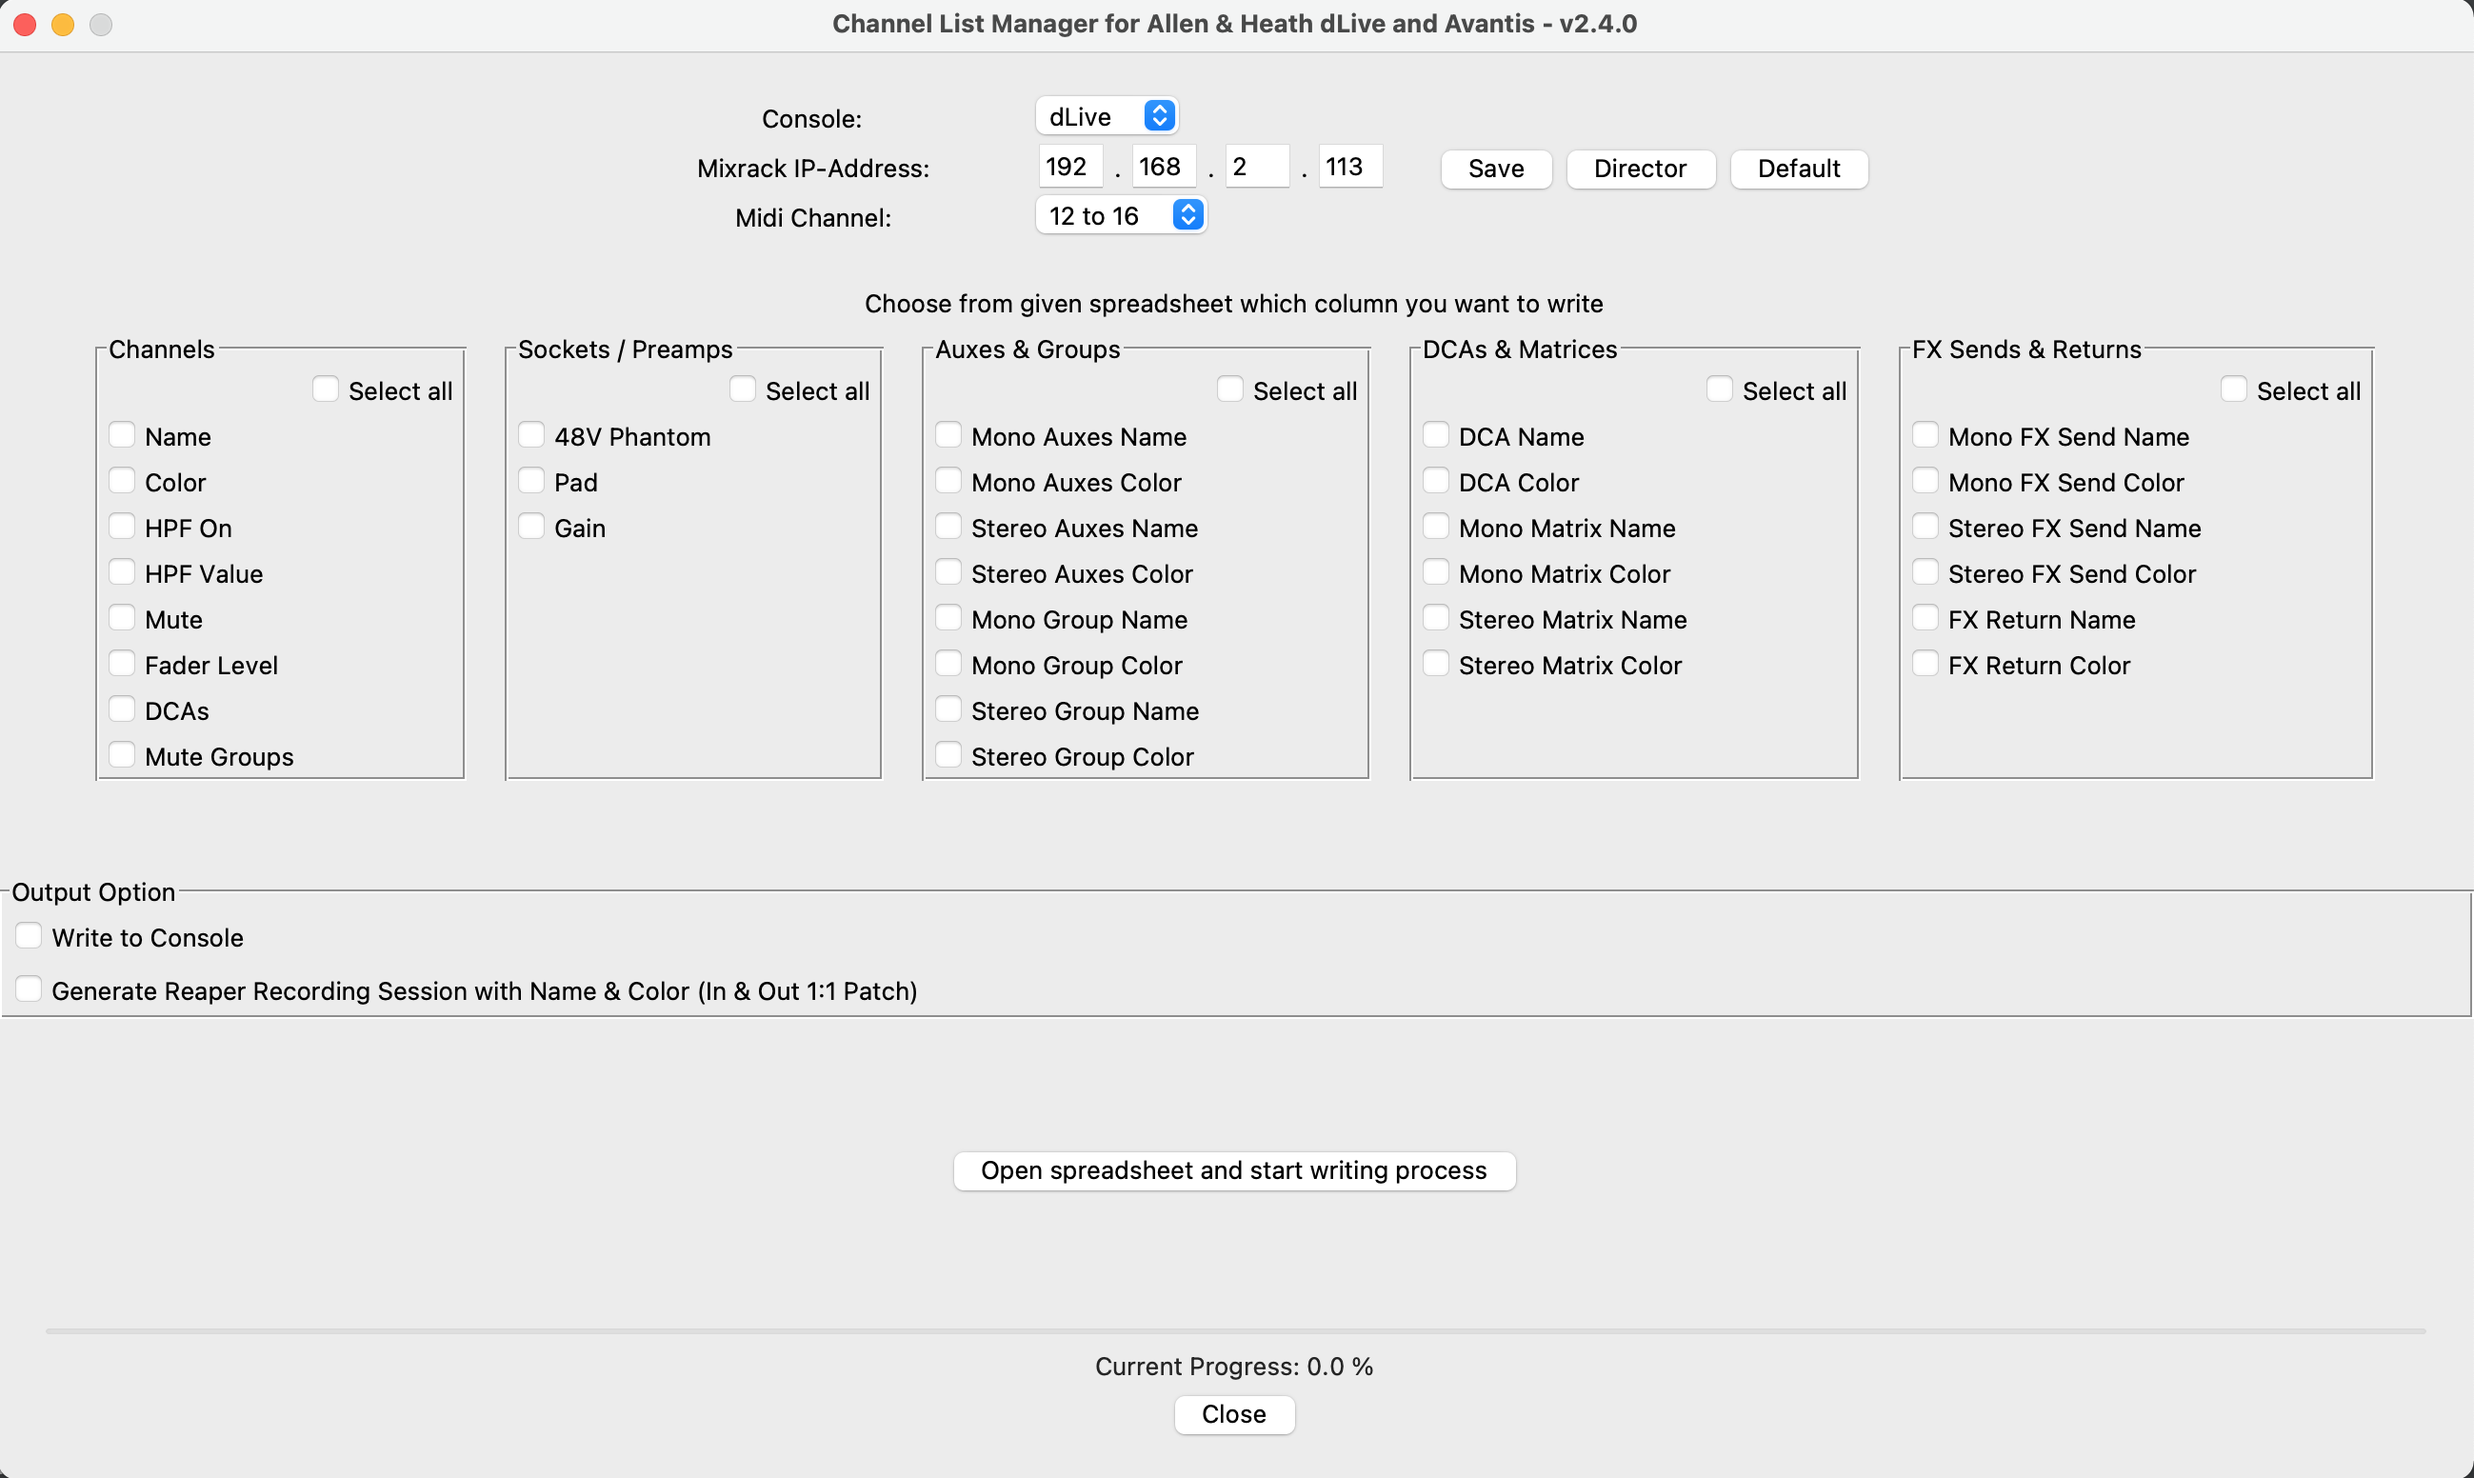
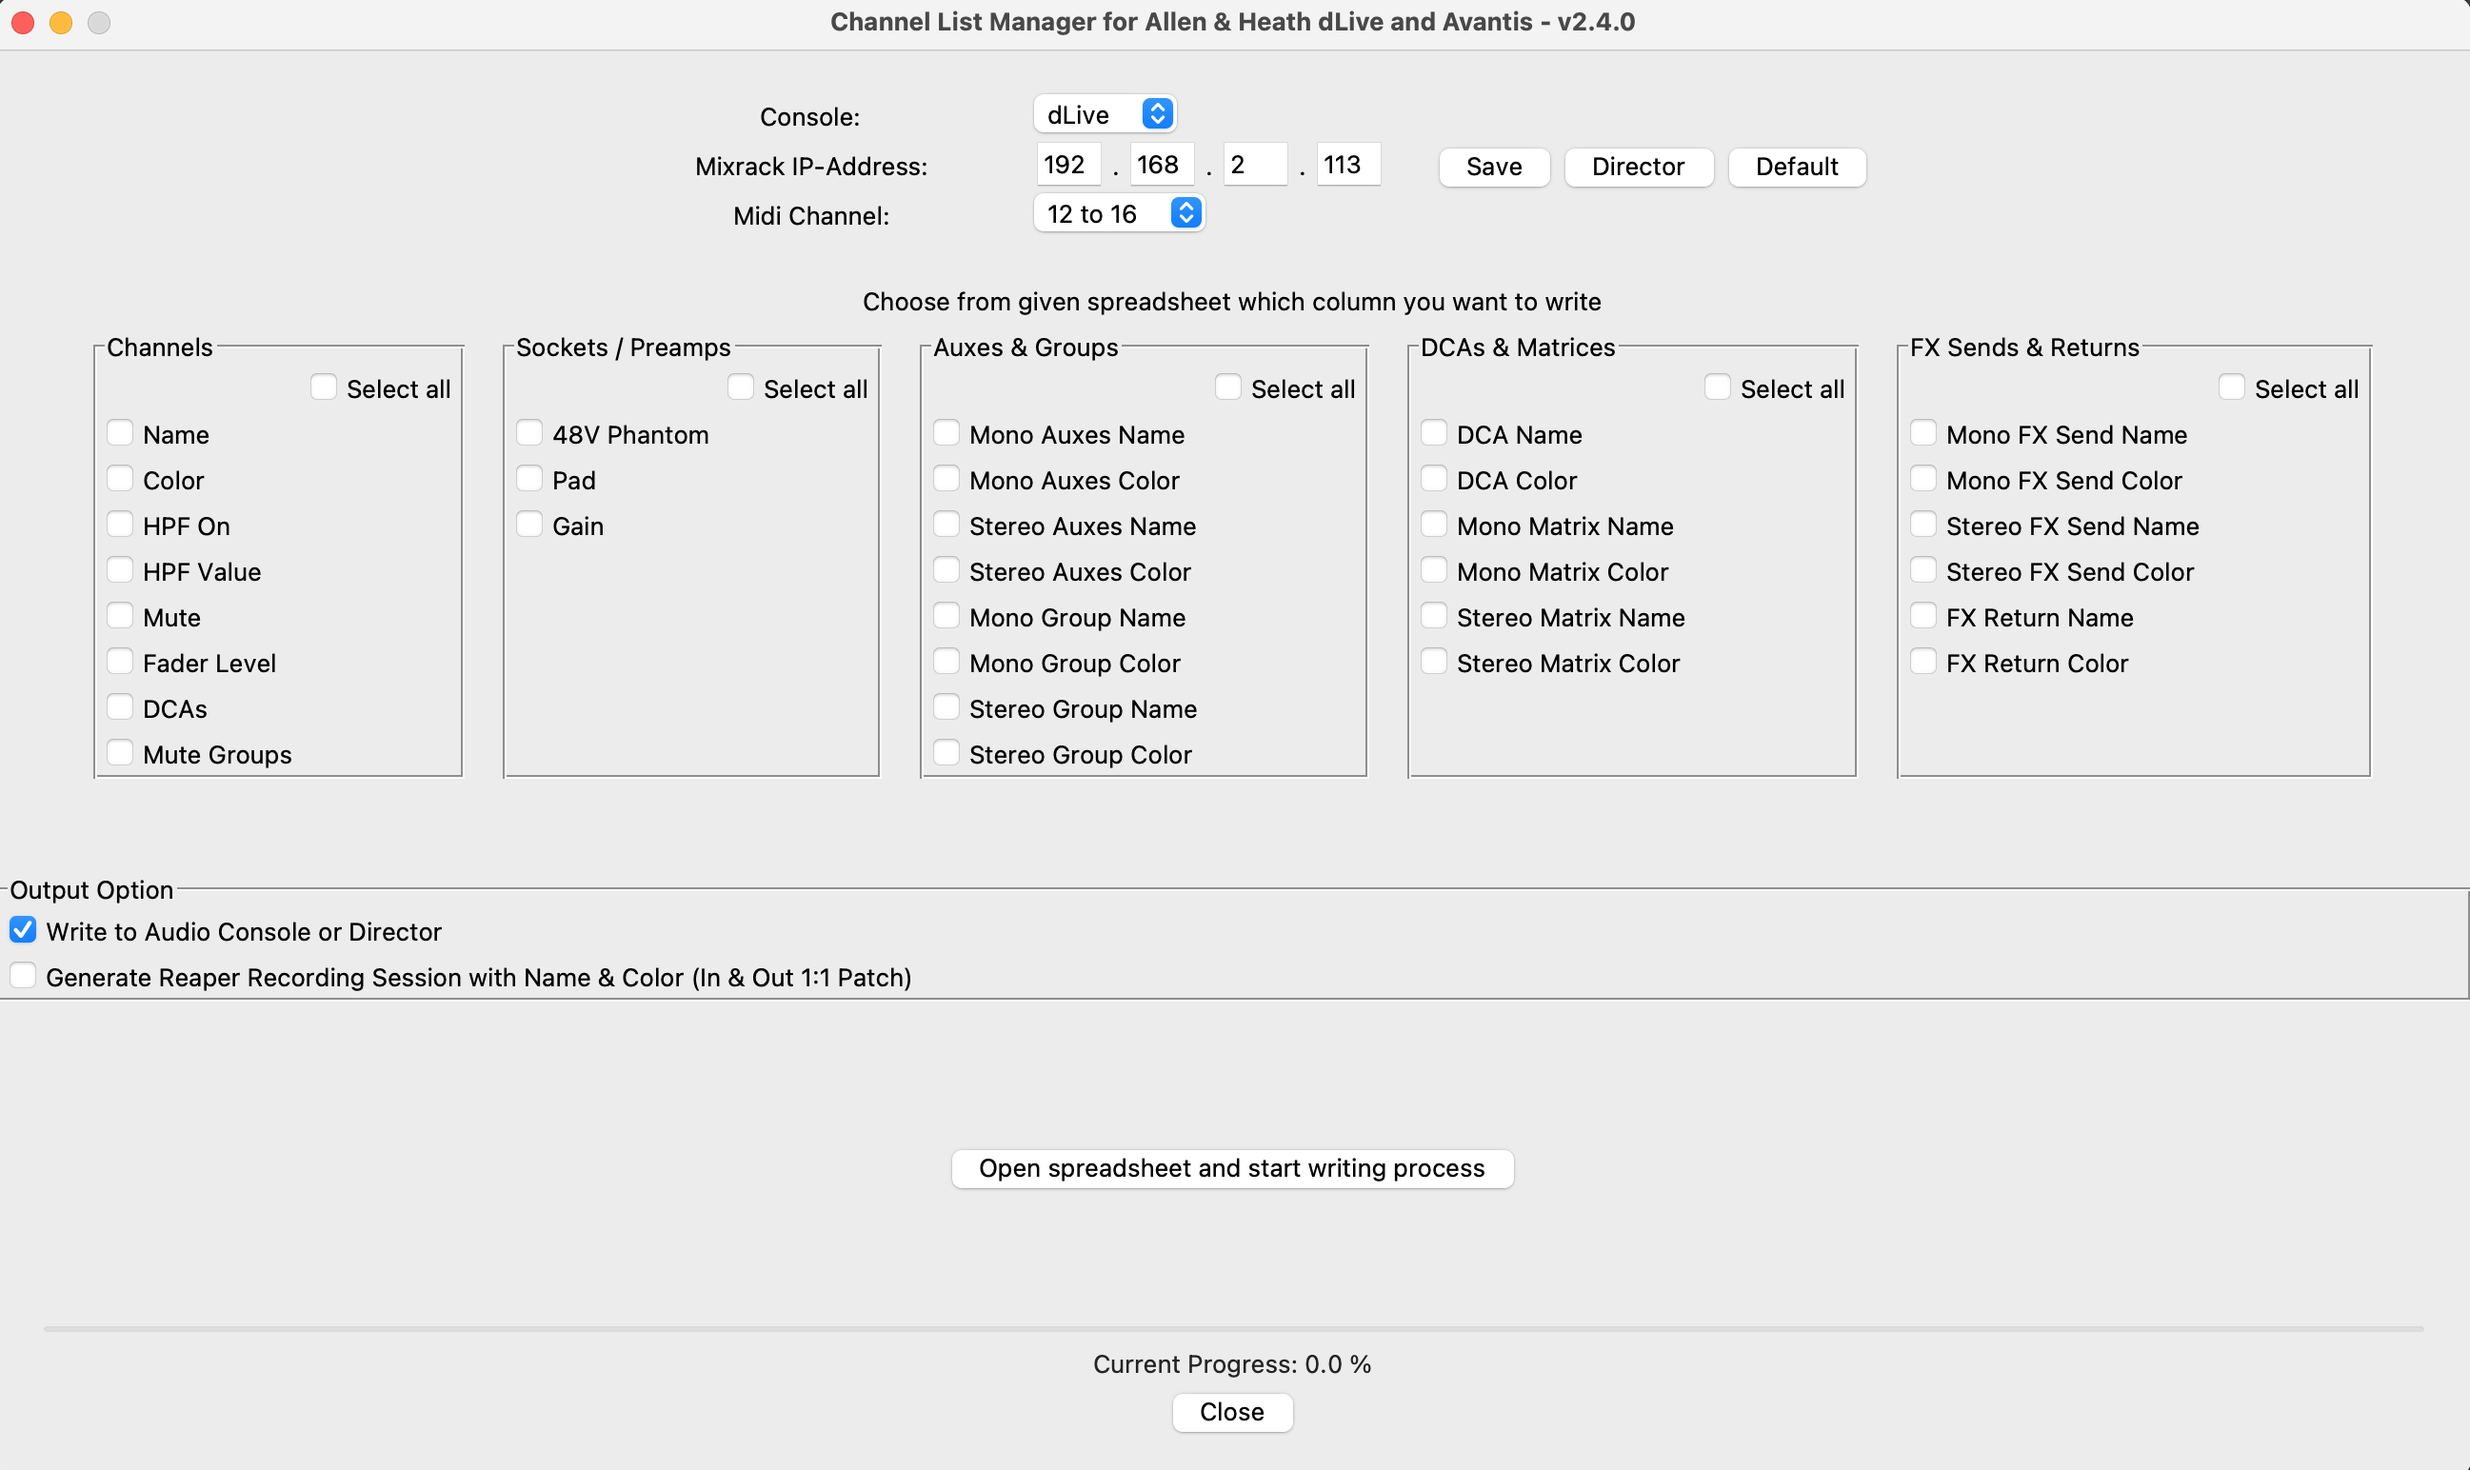
doc updated

diff --git a/README.md b/README.md
@@ -151,13 +151,13 @@ Afterwards the following window appears.
 
 5. `Default` Sets the ip back to default: 192.168.1.70.
 
-6. Select the columns you want to write, and select `Write to selected Audio Console`
+6. Select the spreadsheet columns you want to write, and select `Write to Audio Console or Director`
 
 7. If you also want to create a Reaper template session, set the corresponding tick. The Reaper session file `<input-spread-sheet-file>-recording-template.rpp` 
    will be generated into the directory from where the spreadsheet has been chosen. In the `Channels` Tab, you can configure, which channel shall be recorded, and "record armed". The patching is 1:1 (derived from the channel number) 
    You can also use the tool to create only the Reaper session file, in case you use a different console. 
 
-8. Click the button "Open spreadsheet and start writing process" to select your custom Excel sheet. Afterwards the selected action(s) start automatically.
+8. Click the button `Open spreadsheet and start writing process` to select your custom Excel sheet. Afterwards the selected action(s) start automatically.
 
 9. If something goes wrong, please check the python console or the `main.log`
 
@@ -183,9 +183,9 @@ Feature & Maintenance Release
 
 #### Improvements
 - HPF Value Formula improved
-- Repository cleaned up
-- Small Code Refactorings
 - Channels > 64 skipped for Avantis
+- UI Error Handling improved
+- Repository reorganized
 
 #### Technical Limitations
 - DX2 (Pad/Phantom/Gain) for Avantis via SLink is currently due to technical limitation not possible.
